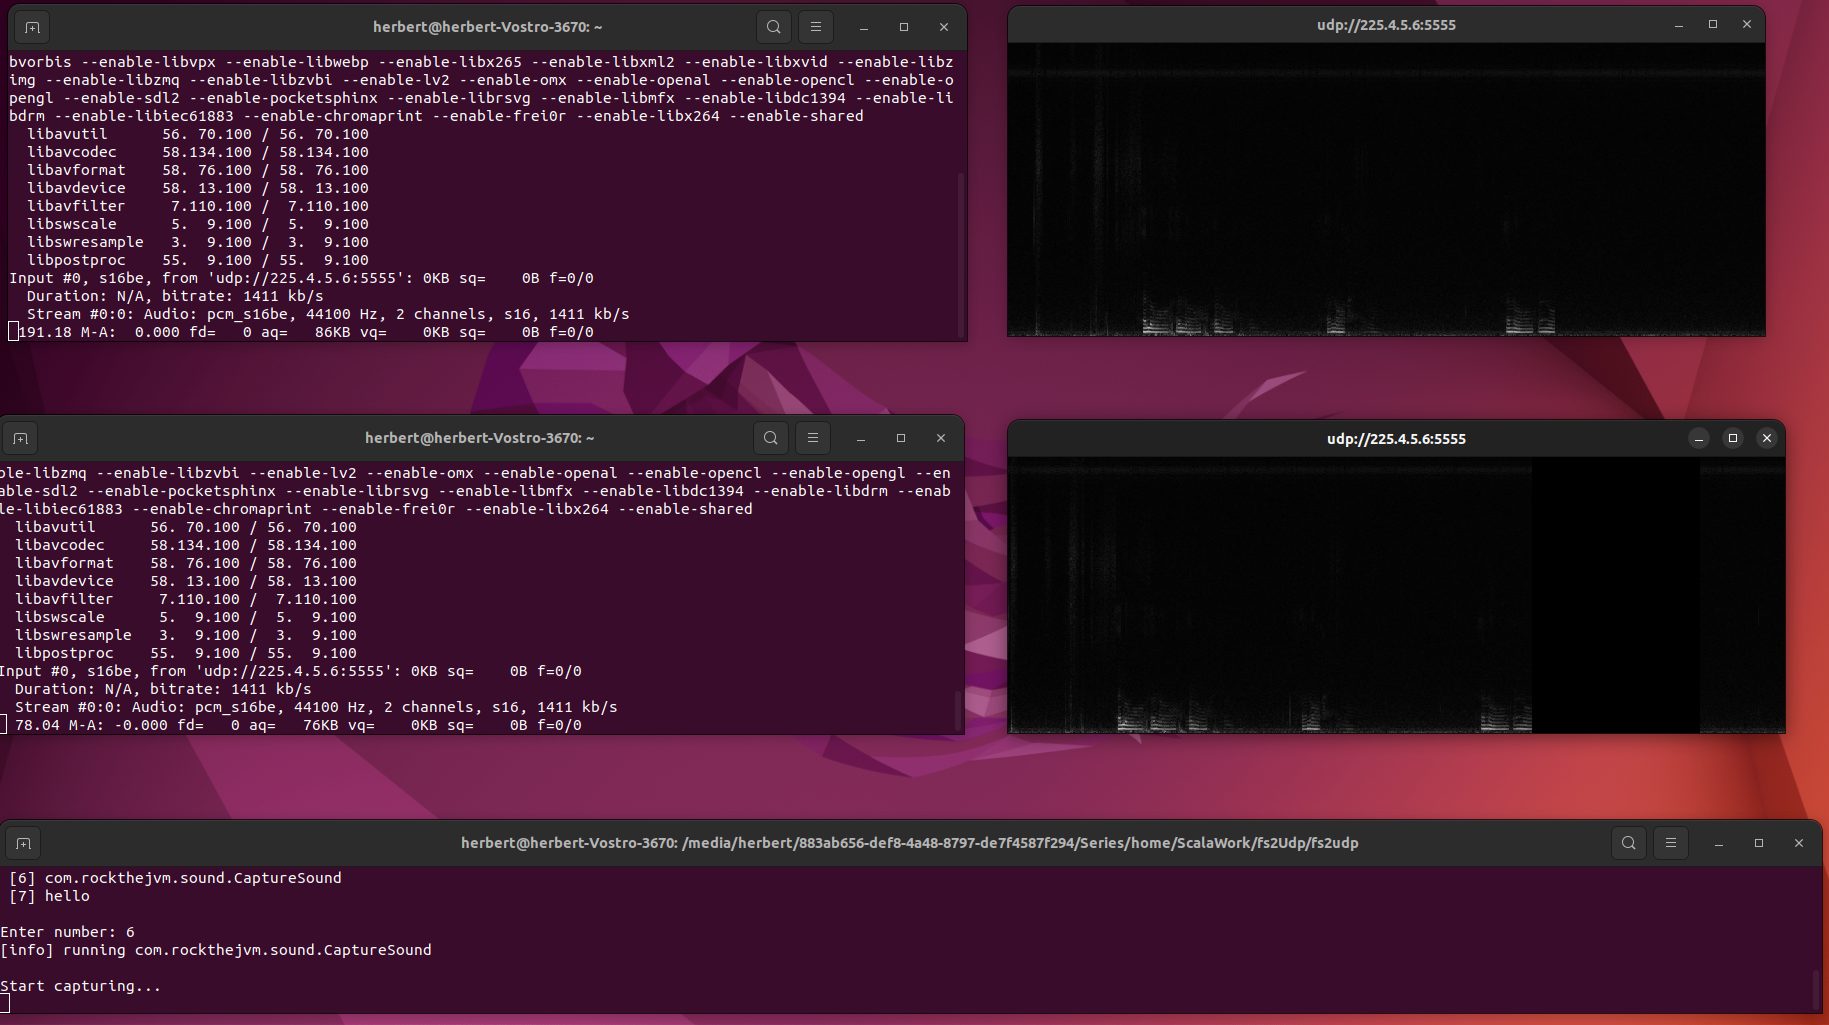
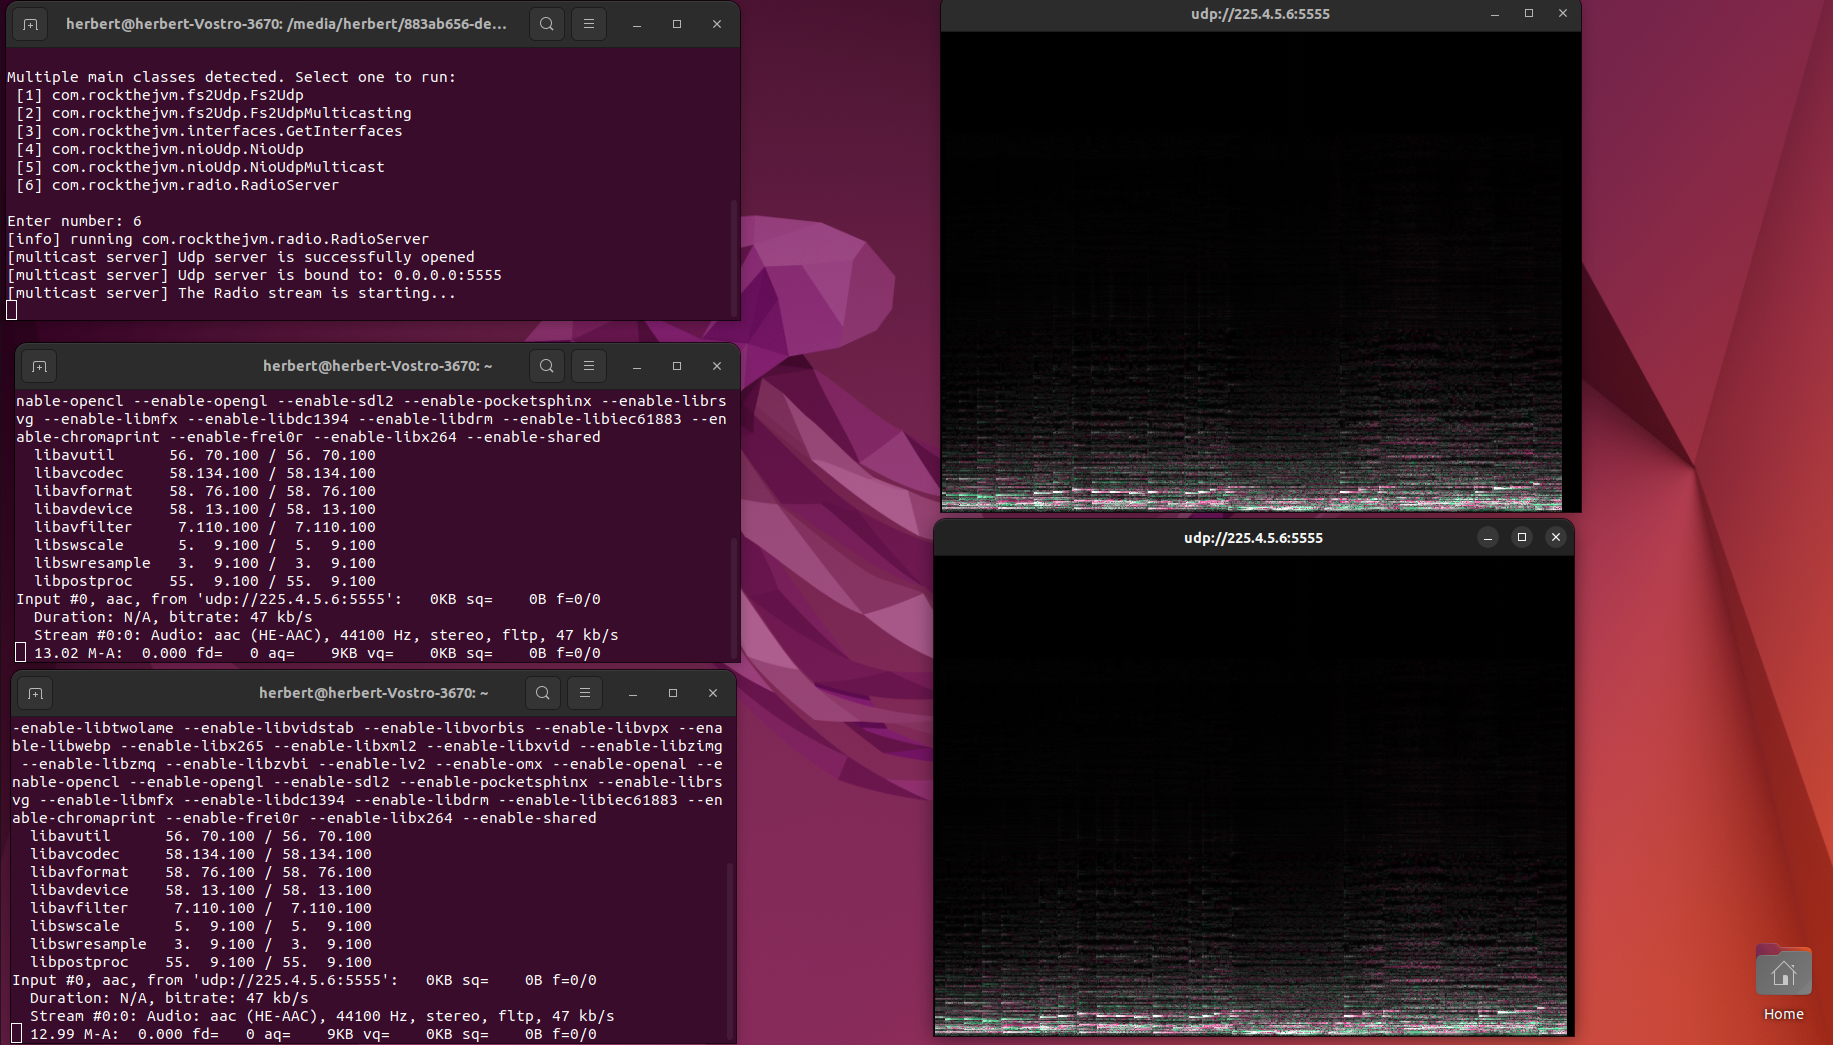
changed practicle example

diff --git a/_posts/2023-10-19-from-nio-to-fs2-for-udp.md b/_posts/2023-10-19-from-nio-to-fs2-for-udp.md
@@ -1186,104 +1186,37 @@ Tue Oct 24 15:22:20 EAT 2023
 The output is similar to our NIO example.
 
 ## 6. A Practical Example
-In this section, we'll cover a common use case, streaming live audio, for this build we'll be streaming live audio from a pair of earphones or headset that should have a microphone inbuilt. To do this we will make use of the `javax.sound.sampled` library. 
+In this section, we'll cover a common use case, streaming live audio, for this build we'll be streaming audio from an online radio station and interested listeners will be able to listen through FFplay.
 
-Let's create a new file, `CaptureSound.scala` in the following path, `src/main/scala/com/rockthejvm/sound/CaptureSound.scala`, and add the following code.
-
-```scala
-package com.rockthejvm.sound
-
-import cats.effect.{IO, IOApp, ExitCode}
-import javax.sound.sampled.AudioFormat
-
-object CaptureSound extends IOApp{
-  private def getAudioFormat: AudioFormat = {
-    val sampleRate = 44100.0f
-    val sampleSizeInBits = 16
-    val channels = 2
-    val signed = true
-    val bigEdian = true
-
-    new AudioFormat(
-      sampleRate,
-      sampleSizeInBits,
-      channels,
-      signed,
-      bigEdian
-    )
-  }
-
-  def run(args: List[String]): IO[ExitCode] = ???
-}
-```
-We start by defining a private function, `getAudioFormat` that returns an `AudioFormat`. `AudioFormat` is a class from `javax.sound.sampled` that specifies the particular arrangement of data in a sound stream. The provided parameters mean the following:
-
-- `sampleRate` is the number of samples played or recorded per second.
-- `sampleSizeInBits` is the number of bits in each sample of a sound.
-- `channels` is the number of audio channels, 1 for mono and 2 for stereo.
-- `signed` indicates whether the data is signed or unsigned.
-- `bigEdian` indicates whether the data for a single sample is stored in big-endian byte order if true or little-endian if false.
-
-Next, we define a capture function that will capture the sound from our earphones or headset:
+Let's create a new file, `RadioServer.scala` in the following path, `src/main/scala/com/rockthejvm/radio/RadioServer.scala`, and add the following code.
 
 ```scala
-...
-import java.io.OutputStream
-import javax.sound.sampled.DataLine
-import javax.sound.sampled.DataLine.Info
-import javax.sound.sampled.TargetDataLine
-import javax.sound.sampled.AudioSystem
+package com.rockthejvm.radio
 
-object CaptureSound extends IOApp{
-  ...
-  private def capture(out: OutputStream): Unit = {
-    val info: Info = new DataLine.Info(classOf[TargetDataLine], getAudioFormat)
-    val line: TargetDataLine =
-      AudioSystem.getLine(info).asInstanceOf[TargetDataLine]
-    val data: Array[Byte] = new Array[Byte](1024)
-
-    if (AudioSystem.isLineSupported(info)) {
-      line.open()
-      line.start()
-      println("Start capturing...")
-      while (line.isOpen()) {
-        val numBytesRead: Int = line.read(data, 0, data.length)
-        out.write(data, 0, numBytesRead)
-      }
-    } else {
-      println("line not supported")
-    }
-  }
-  ...
-}
-```
-`capture` takes an `OutputStream` as a parameter and returns `Unit`. In our implementation, we start by instantiating a `DataLine.Info` class that provides useful information about a specific audio interface, in this case, the information is about a specific port and data line. 
-
-The `DataLine.Info` class constructor takes as parameters `classOf[TargetDataLine]`, a runtime representation of `TargetDataLine` which is a type of `DataLine` from which audio data can be read, and an `AudioFormat`.
-
-We then call `AudioSystem.getLine(info)` that obtains a line that matches the description from `info`, the result of which is cast as a `TargetDataLine`, and in the next line, we define `data` as an `Array[Byte]` of size 1024. 
-
-Next, we check whether the system supports any lines that match the specified `Line.Info` object by calling `AudioSystem.isLineSupported(info)`, if this is true we call `line.open()` which acquires any required system resources and becomes operational then `line.start()` that allows a line to engage in data I/O after which we print a message showing the user we are starting to capture the audio.
-
-We use a `while` loop that checks if `line` is still open and for each iteration, calls `line.read()` which takes audio data from the data line's input buffer and reads the requested number of bytes into the specified array, `data`. The `read()` method takes as parameters an `Array[Bytes]`, the offset and the number of bytes to be read which is also what is returned. 
-
-Lastly, we call `out.write()` that writes the supplied bytes from the `data` byte array starting at an offset of `0` to `out`, an `OutputStream` passed in as a function parameter.
-
-Let's define our server function:
-
-```scala
-...
+import cats.effect.{IOApp, ExitCode, IO}
 import com.comcast.ip4s.*
-import fs2.{io, Stream}
+import fs2.io
+import java.net.URL
+import fs2.Stream
 import fs2.io.net.{Network, SocketOption, Datagram}
-import java.net.StandardSocketOptions
-import java.net.NetworkInterface
-import java.net.StandardProtocolFamily
+import java.net.{
+  StandardSocketOptions,
+  StandardProtocolFamily,
+  NetworkInterface
+}
 
-object CaptureSound extends IOApp{
-  ...
-  def server = {
-    val address = SocketAddress(ip"225.4.5.6", port"5555")
+object RadioServer extends IOApp {
+  def radioServer = {
+    val multicastAddress: SocketAddress[IpAddress] =
+      SocketAddress(ip"225.4.5.6", port"5555")
+    val url: Stream[IO, Byte] = io.readInputStream[IO](
+      IO(
+        new URL(
+          "http://media-ice.musicradio.com:80/ClassicFM-M-Movies"
+        ).openConnection.getInputStream
+      ),
+      1024
+    )
     Stream
       .resource(
         Network[IO].openDatagramSocket(
@@ -1301,185 +1234,74 @@ object CaptureSound extends IOApp{
           protocolFamily = Some(StandardProtocolFamily.INET)
         )
       )
-      .flatMap { socket =>
-        io.readOutputStream(1024)(out => IO(capture(out)))
-          .chunks
-          .map(data => Datagram(address, data))
-          .through(socket.writes)
-          .drain
-      }
-      .handleErrorWith { error =>
-        Stream.eval(
-          IO.println(s"[multicast client] Error: ${error.getMessage}")
-        )
-      }
-  }
-  ...
-}
-```
-Here we use `io.readOutputStream` which requires two parameters, a `chunkSize` of type `Int` and a function of type `OutputStream => F[Unit]` which when run will emit the bytes recorded in the `OutputStream` as an `fs2.Stream`. 
-
-We provide a chunk size value of `1024` and `out => IO(capture(out))` as the required function passing `out`, the `OutputStream` to the `capture()` function wrapped in `IO`. We then call chunks and map to our audio data to a `Datagram` which is then sent to a multicast group address by calling `socket.writes`.
-
-Let's define our run method:
-
-```scala
-  def run(args: List[String]): IO[ExitCode] =
-    server.compile.drain.as(ExitCode.Success)
-```
-Here's the full code:
-```scala
-package com.rockthejvm.sound
-
-import cats.effect.{IO, IOApp, ExitCode}
-import javax.sound.sampled.AudioFormat
-import java.io.OutputStream
-import javax.sound.sampled.DataLine
-import javax.sound.sampled.DataLine.Info
-import javax.sound.sampled.TargetDataLine
-import javax.sound.sampled.AudioSystem
-import com.comcast.ip4s.*
-import fs2.{io, Stream}
-import fs2.io.net.{Network, SocketOption, Datagram}
-import java.net.StandardSocketOptions
-import java.net.NetworkInterface
-import java.net.StandardProtocolFamily
-
-object CaptureSound extends IOApp {
-  private def getAudioFormat: AudioFormat = {
-    val sampleRate = 44100.0f
-    val sampleSizeInBits = 16
-    val channels = 2
-    val signed = true
-    val bigEdian = true
-
-    new AudioFormat(
-      sampleRate,
-      sampleSizeInBits,
-      channels,
-      signed,
-      bigEdian
-    )
-  }
-
-  private def capture(out: OutputStream): Unit = {
-    val info: Info = new DataLine.Info(classOf[TargetDataLine], getAudioFormat)
-    val line: TargetDataLine =
-      AudioSystem.getLine(info).asInstanceOf[TargetDataLine]
-    val data: Array[Byte] = new Array[Byte](1024)
-
-    if (AudioSystem.isLineSupported(info)) {
-      line.open()
-      line.start()
-      println("Start capturing...")
-      while (line.isOpen()) {
-        val numBytesRead: Int = line.read(data, 0, data.length)
-        out.write(data, 0, numBytesRead)
-      }
-    } else {
-      println("line not supported")
-    }
-  }
-
-  def server = {
-    val address = SocketAddress(ip"225.4.5.6", port"5555")
-    Stream
-      .resource(
-        Network[IO].openDatagramSocket(
-          port = Some(port"5555"),
-          options = List(
-            SocketOption(
-              StandardSocketOptions.IP_MULTICAST_IF,
-              NetworkInterface.getByName("wlxb4b024bc35a7")
-            ),
-            SocketOption(
-              StandardSocketOptions.SO_REUSEADDR,
-              true
+      .evalTap { socket =>
+        IO.println("[multicast server] Udp server is successfully opened") *>
+          socket.localAddress.flatMap(addr =>
+            IO.println(
+              s"[multicast server] Udp server is bound to: ${addr.toString}"
             )
-          ),
-          protocolFamily = Some(StandardProtocolFamily.INET)
-        )
-      )
+          ) *>
+          IO.println(
+            "[multicast server] The Radio stream is starting..."
+          )
+      }
       .flatMap { socket =>
-        io.readOutputStream(1024)(out => IO(capture(out)))
-          .chunks
-          .map(data => Datagram(address, data))
+        url.chunks
+          .map(data => Datagram(multicastAddress, data))
           .through(socket.writes)
           .drain
       }
       .handleErrorWith { error =>
         Stream.eval(
-          IO.println(s"[multicast client] Error: ${error.getMessage}")
+          IO.println(s"[multicast server] Error: ${error.getMessage}")
         )
       }
   }
 
-  def run(args: List[String]): IO[ExitCode] =
-    server.compile.drain.as(ExitCode.Success)
+  override def run(args: List[String]): IO[ExitCode] =
+    radioServer.compile.drain
+      .as(ExitCode.Success)
 }
 ```
+This code should be familiar now, here we create a `radioServer()` function that sends audio to a multicast address which is on port `5555` and IP address `225.4.5.6`.
 
-Now that our server is defined, we need a client that can play audio from a UDP stream, to do this we'll be using the FFplay, a simple and portable media player that comes bundled with FFmpeg. Let's ensure FFplay is installed in our system by running `ffplay -version` in our terminal.
+To create our byte stream, `url`, we use the `io.readInputStream[IO]()` function that reads bytes from a specified `InputStream` to a buffer with a specified `chunkSize`. Here's the function signature.
+
+```scala
+def readInputStream[F[_$1]](
+  fis: F[InputStream], 
+  chunkSize: Int, 
+  closeAfterUse: Boolean = true)
+  (implicit F: Sync[F]): fs2.Stream[F, Byte]
+```
+To create this stream we create a Java `URL` class, pass it the link to our online radio station, then call `.openConnection.getInputStream` on the result to return an `InputStream` that reads from this open connection.
+
+We set `F[_]` to `IO` on `io.readInputStream[IO]()` and also wrap our `InputStream` in `IO` as required by the function. `chunkSize` is set `1024` and `closeAfterUse` is left as the default.
+
+To create our datagrams we use the `url.chunks` method and pass the data chunk to the `Datagram()` case class then pipe these to `socket.writes`.
+
+Before we run our server, we should make sure our multicast interface is connected, if everything runs correctly, we should get the following output:
 
 ```bash
-> ffplay -version
-
-ffplay version 4.4.2-0ubuntu0.22.04.1 Copyright (c) 2003-2021 the FFmpeg developers
-built with gcc 11 (Ubuntu 11.2.0-19ubuntu1)
-configuration: --prefix=/usr --extra-version=0ubuntu0.22.04.1 --toolchain=hardened --libdir=/usr/lib/x86_64-linux-gnu --incdir=/usr/include/x86_64-linux-gnu --arch=amd64 --enable-gpl --disable-stripping --enable-gnutls --enable-ladspa --enable-libaom --enable-libass --enable-libbluray --enable-libbs2b --enable-libcaca --enable-libcdio --enable-libcodec2 --enable-libdav1d --enable-libflite --enable-libfontconfig --enable-libfreetype --enable-libfribidi --enable-libgme --enable-libgsm --enable-libjack --enable-libmp3lame --enable-libmysofa --enable-libopenjpeg --enable-libopenmpt --enable-libopus --enable-libpulse --enable-librabbitmq --enable-librubberband --enable-libshine --enable-libsnappy --enable-libsoxr --enable-libspeex --enable-libsrt --enable-libssh --enable-libtheora --enable-libtwolame --enable-libvidstab --enable-libvorbis --enable-libvpx --enable-libwebp --enable-libx265 --enable-libxml2 --enable-libxvid --enable-libzimg --enable-libzmq --enable-libzvbi --enable-lv2 --enable-omx --enable-openal --enable-opencl --enable-opengl --enable-sdl2 --enable-pocketsphinx --enable-librsvg --enable-libmfx --enable-libdc1394 --enable-libdrm --enable-libiec61883 --enable-chromaprint --enable-frei0r --enable-libx264 --enable-shared
-libavutil      56. 70.100 / 56. 70.100
-libavcodec     58.134.100 / 58.134.100
-libavformat    58. 76.100 / 58. 76.100
-libavdevice    58. 13.100 / 58. 13.100
-libavfilter     7.110.100 /  7.110.100
-libswscale      5.  9.100 /  5.  9.100
-libswresample   3.  9.100 /  3.  9.100
-libpostproc    55.  9.100 / 55.  9.100
+[info] running com.rockthejvm.radio.RadioServer 
+[multicast server] Udp server is successfully opened
+[multicast server] Udp server is bound to: 0.0.0.0:5555
+[multicast server] The Radio stream is starting...
 ```
-Since our server will be streaming 16-bit PCM signed audio at 44100Hz, in order for FFplay to properly play this, we'll need to pass an appropriate format. If we run `ffmpeg -formats | grep PCM` in the terminal, we can use the output as a guide:
+We can now connect to our stream using `FFplay` in the following way:
 
 ```bash
-> ffmpeg -formats | grep PCM
-
-...
- DE alaw            PCM A-law
- DE f32be           PCM 32-bit floating-point big-endian
- DE f32le           PCM 32-bit floating-point little-endian
- DE f64be           PCM 64-bit floating-point big-endian
- DE f64le           PCM 64-bit floating-point little-endian
- DE mulaw           PCM mu-law
- DE s16be           PCM signed 16-bit big-endian
- DE s16le           PCM signed 16-bit little-endian
- DE s24be           PCM signed 24-bit big-endian
- DE s24le           PCM signed 24-bit little-endian
- DE s32be           PCM signed 32-bit big-endian
- DE s32le           PCM signed 32-bit little-endian
- DE s8              PCM signed 8-bit
- DE u16be           PCM unsigned 16-bit big-endian
- DE u16le           PCM unsigned 16-bit little-endian
- DE u24be           PCM unsigned 24-bit big-endian
- DE u24le           PCM unsigned 24-bit little-endian
- DE u32be           PCM unsigned 32-bit big-endian
- DE u32le           PCM unsigned 32-bit little-endian
- DE u8              PCM unsigned 8-bit
- DE vidc            PCM Archimedes VIDC
+ffplay udp://225.4.5.6:5555
 ```
-This output shows a list of formats and their associated meanings when dealing with PCM data. From the list above we see that the `s16be` matches our required format. 
-
-We play our live audio stream by running `ffplay -f s16be -ar 44100 -ac 2  udp://225.4.5.6:5555` where `-f` stands for format, `-ar` the sample rate and `-ac` the number of channels. Remember these values were used when defining `AudioFormat`.
-
-To run our application make sure our multicast interface is up and running, ensure that your earphones or headsets are plugged into the computer, start the server then run `ffplay -f s16be -ar 44100 -ac 2  udp://225.4.5.6:5555` in the terminal to start the client, this should bring a popup window when ffplay starts playing the stream. 
-
-If you talk into your mic, you should be able to hear yourself and the the ffplay pop-up window should show some visualizations as it plays.
-
-Here is an image of me running the server at the bottom, and two clients at the top:
+This should bring up a popup screen with some audio visualizations while the radio station is playing. 
+Here's a picture of this program running on Ubuntu 22.04 with two clients connected.
 
 ![udp screenshot](../images/fs2udp/udp.png)
 
 ## 7. Conclusion
 In this article, we've learned how to implement a UDP server and client in NIO and then used that knowledge to implement the same application in Fs2. 
 
-We covered what multicasting is, how it works, and we developed a UDP server that streams live audio from a pair of earphones or headsets using its built-in microphone. 
+We covered what multicasting is, how it works, and we developed a UDP multicast server to stream an online radio station to multiple clients. 
 
 We've seen that the `fs2.io.net` package provides an easier purely functional interface for building UDP applications, the implementation is shorter, more concise, and readable code compared to NIO. 
 
